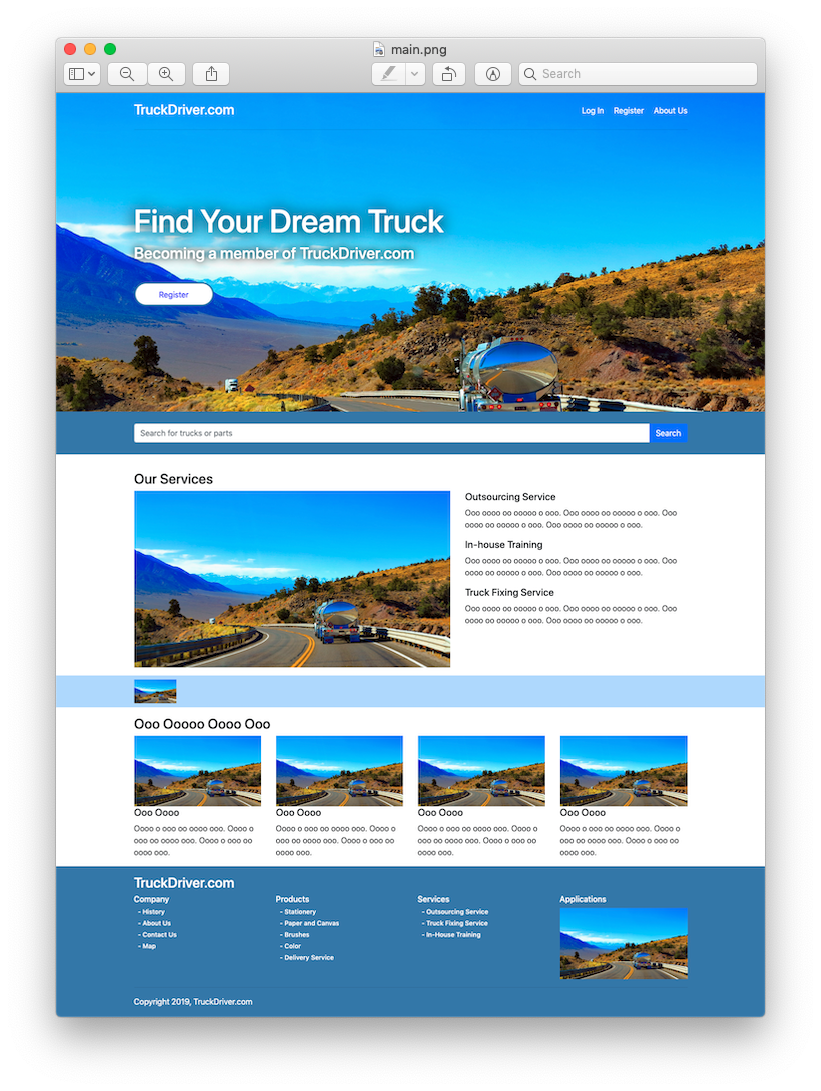
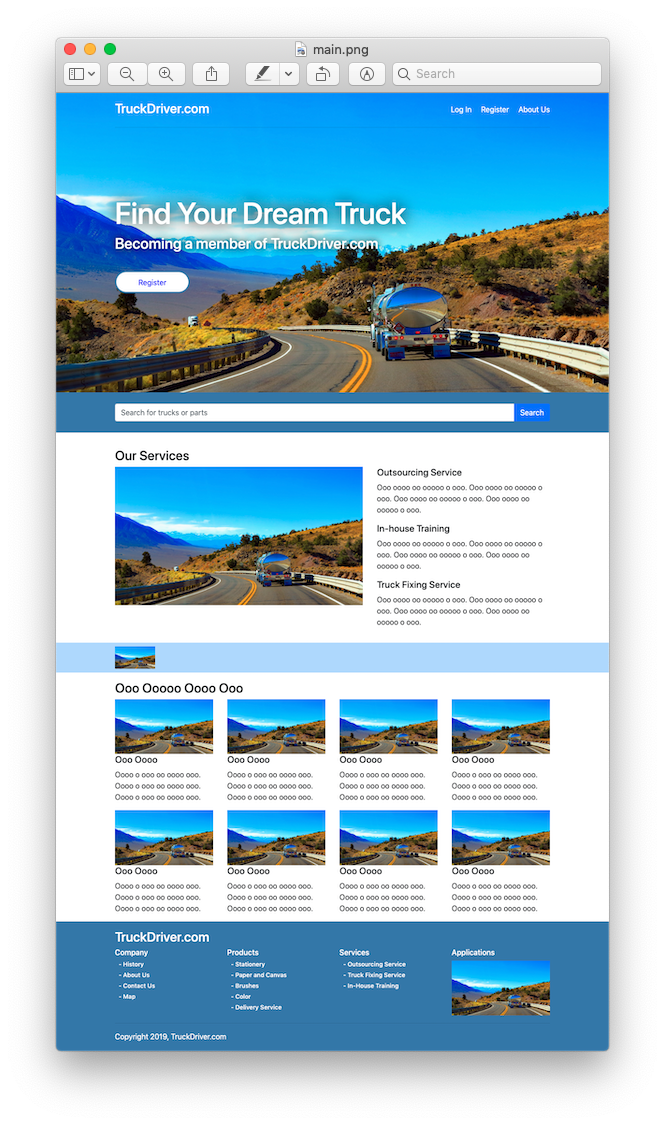
Update cover photo

diff --git a/views/index.html b/views/index.html
@@ -98,6 +98,34 @@
                             <p>Oooo o ooo oo oooo ooo. Oooo o ooo oo oooo ooo. Oooo o ooo oo oooo ooo.</p>
                         </div>
                     </div>
+                    <div class="col-6 col-md-3">
+                        <div class="box">
+                            <img src="main.jpg" class="img-fluid">
+                            <h5>Ooo Oooo</h5>
+                            <p>Oooo o ooo oo oooo ooo. Oooo o ooo oo oooo ooo. Oooo o ooo oo oooo ooo.</p>
+                        </div>
+                    </div>
+                    <div class="col-6 col-md-3">
+                        <div class="box">
+                            <img src="main.jpg" class="img-fluid">
+                            <h5>Ooo Oooo</h5>
+                            <p>Oooo o ooo oo oooo ooo. Oooo o ooo oo oooo ooo. Oooo o ooo oo oooo ooo.</p>
+                        </div>
+                    </div>
+                    <div class="col-6 col-md-3">
+                        <div class="box">
+                            <img src="main.jpg" class="img-fluid">
+                            <h5>Ooo Oooo</h5>
+                            <p>Oooo o ooo oo oooo ooo. Oooo o ooo oo oooo ooo. Oooo o ooo oo oooo ooo.</p>
+                        </div>
+                    </div>
+                    <div class="col-6 col-md-3">
+                        <div class="box">
+                            <img src="main.jpg" class="img-fluid">
+                            <h5>Ooo Oooo</h5>
+                            <p>Oooo o ooo oo oooo ooo. Oooo o ooo oo oooo ooo. Oooo o ooo oo oooo ooo.</p>
+                        </div>
+                    </div>
                 </div>
             </div>
         </main>
